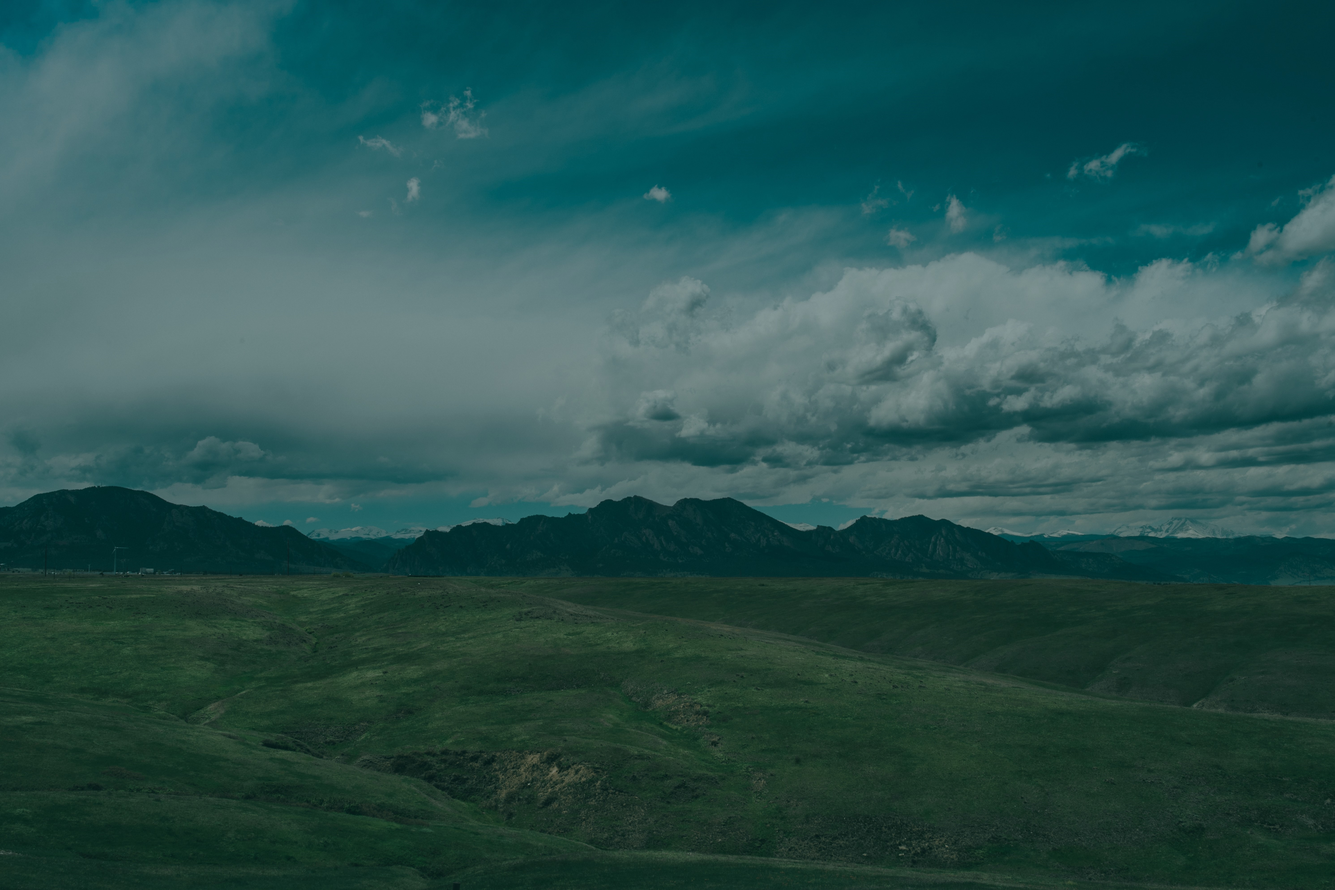
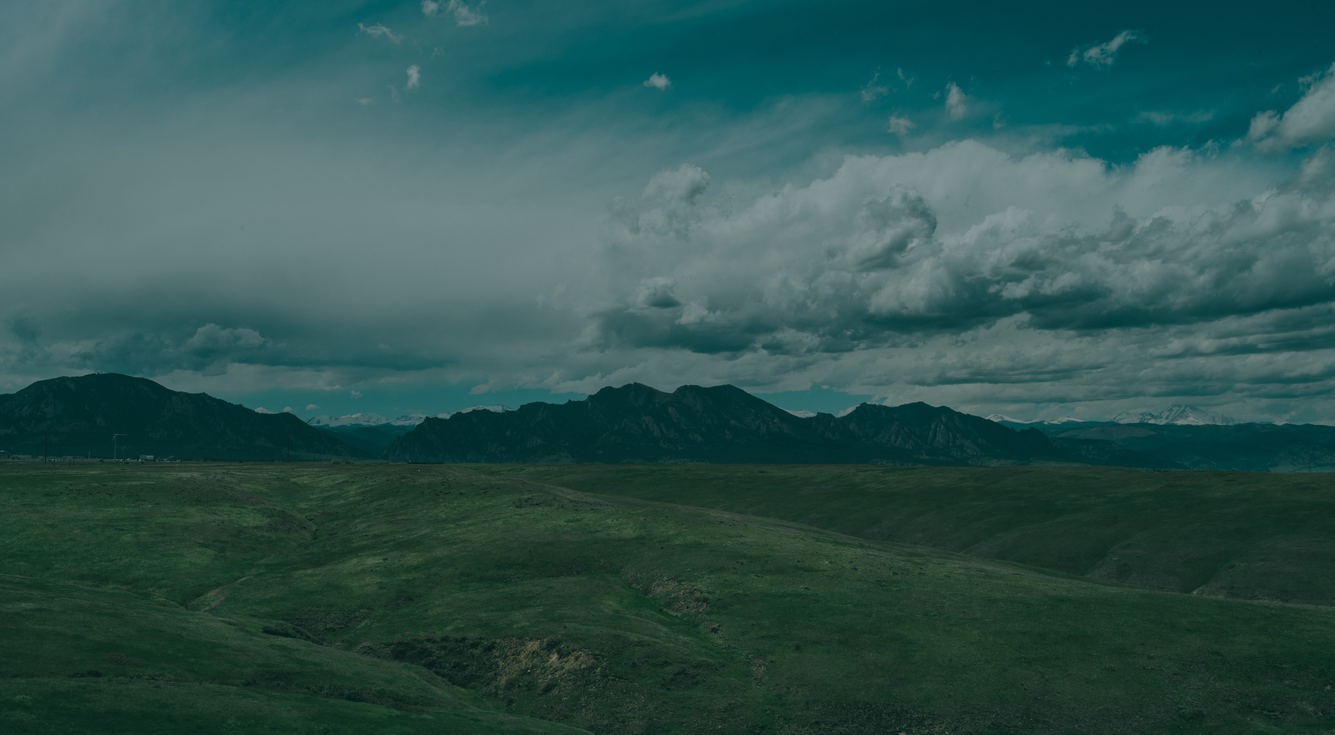
отпозиционировал карточки

diff --git a/src/pages/Main/index.tsx b/src/pages/Main/index.tsx
@@ -1,3 +1,4 @@
+
 import { Header } from "../../components/Header";
 import background from "../../images/main.jpg";
 import s from './styles.module.scss';
@@ -6,21 +7,21 @@ export function Main() {
     return <>
         <Header />
         <main className={s.main}>
-            <ul className={s.concepts}>
-                <li className={s.concept}>
-                    <span className={s.a}>Цель</span>
-                    <span className={s.b}>Обучить</span>
-                </li>
-                <li className={s.concept}>
-                    <span className={s.a}>Важность</span>
-                    <span className={s.b}>Очень важно</span>
-                </li>
-                <li className={s.concept}>
-                    <span className={s.a}>Уникальность</span>
-                    <span className={s.b}>Самый уникальный</span>
-                </li>
-            </ul>
-            <img src={background} alt="wergwgesdewg" className={s.mainimage}/>
+            <div className={s.concepts}>
+                <div className={`${s.concept} ${s.leftConcept}`}>
+                    <h3 className={s.defaultText}>Цель</h3>
+                    <p className={s.hoverText}>Обучить</p>
+                </div>
+                <div className={`${s.concept} ${s.middleConcept}`}>
+                    <h3 className={s.defaultText}>Важность</h3>
+                    <p className={s.hoverText}>Очень важно</p>
+                </div>
+                <div className={`${s.concept} ${s.rightConcept}`}>
+                    <h3 className={s.defaultText}>Уникальность</h3>
+                    <p className={s.hoverText}>Самый уникальный</p>
+                </div>
+            </div>
+            <img src={background} alt="background image" className={s.mainimage}/>
         </main>  
     </> 
 }

diff --git a/src/pages/Main/styles.module.scss b/src/pages/Main/styles.module.scss
@@ -1,11 +1,12 @@
-.main{
+@import "../../styles/mixins.scss";
+
+.main {
     position: relative;
 }
 
-.mainimage{
+.mainimage {
     position: absolute;
     min-height: 100%;
-    min-width: 100%;
     width: 100%;
     height: auto;
     filter: brightness(40%)
@@ -14,7 +15,21 @@
 .concepts {
     position: absolute;
     background: transparent;
-    z-index: 100;
+    display: flex;
+    width: 100%;
+    z-index: 1;
+}
+
+.leftConcept {
+    margin: 130px 0 0 10%;
+}
+
+.middleConcept {
+    margin: 130px 5% 0 5%;
+}
+
+.rightConcept {
+    margin: 130px 10% 0 0;
 }
 
 .concept {
@@ -22,24 +37,23 @@
     vertical-align: middle;
     display: inline-block;
     line-height: 450px;
-    margin: 80px;
-    width: 350px;
+    width: 33.3%;
     height: 450px;
     border-radius: 20px;
     color: white;
     background-color: var(--teal);
     transition: var(--hover);
-    &:hover .a {
-        display: none;
-    }
-    & .b {
-        display: none;
-    }
-    &:hover .b {
-        display: inline;
-        color: #000;
+    .hoverText {
+        @include hidden-element();
     }
     &:hover {
+        .hoverText{
+            @include visible-element();
+            color: black;
+        }
+        .defaultText{
+            @include hidden-element();
+        }
         background-color: var(--super-light-teal);
         transition: var(--hover);
     }

diff --git a/src/styles/mixins.scss b/src/styles/mixins.scss
@@ -1,0 +1,15 @@
+@mixin visible-element () {
+    visibility: visible;
+    z-index: 1;
+    opacity: 1;
+    transition: var(--hover);
+    display: inline;
+ }
+ 
+ @mixin hidden-element() {
+    visibility: hidden;
+    z-index: -1;
+    opacity: 0;
+    transition: var(--hover);
+    display: none;
+ }

diff --git a/src/styles/variables.scss b/src/styles/variables.scss
@@ -1,5 +1,5 @@
 :root {
-    --hover: all 0.3s ease;
+    --hover: all 1s ease;
     --light-teal: rgb(0, 156, 156);
     --teal: teal;
     --dark-teal: rgb(0, 51, 51);
